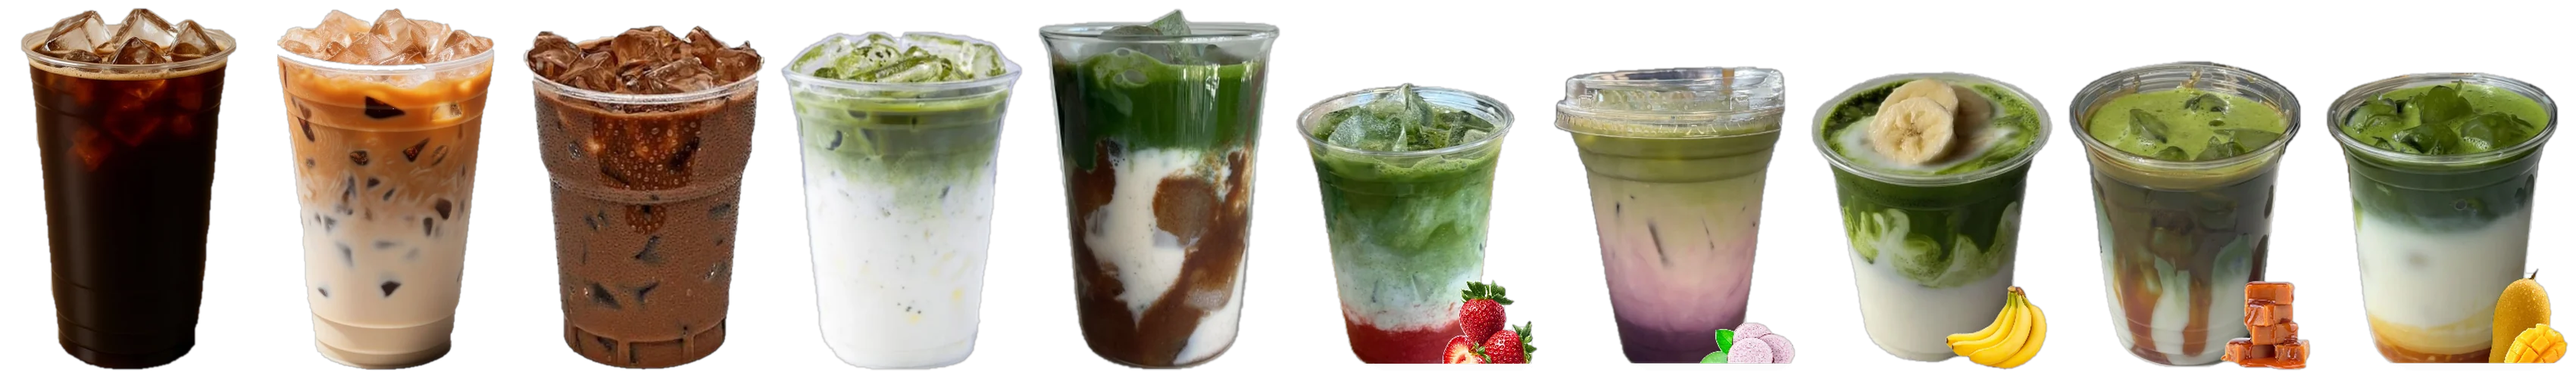
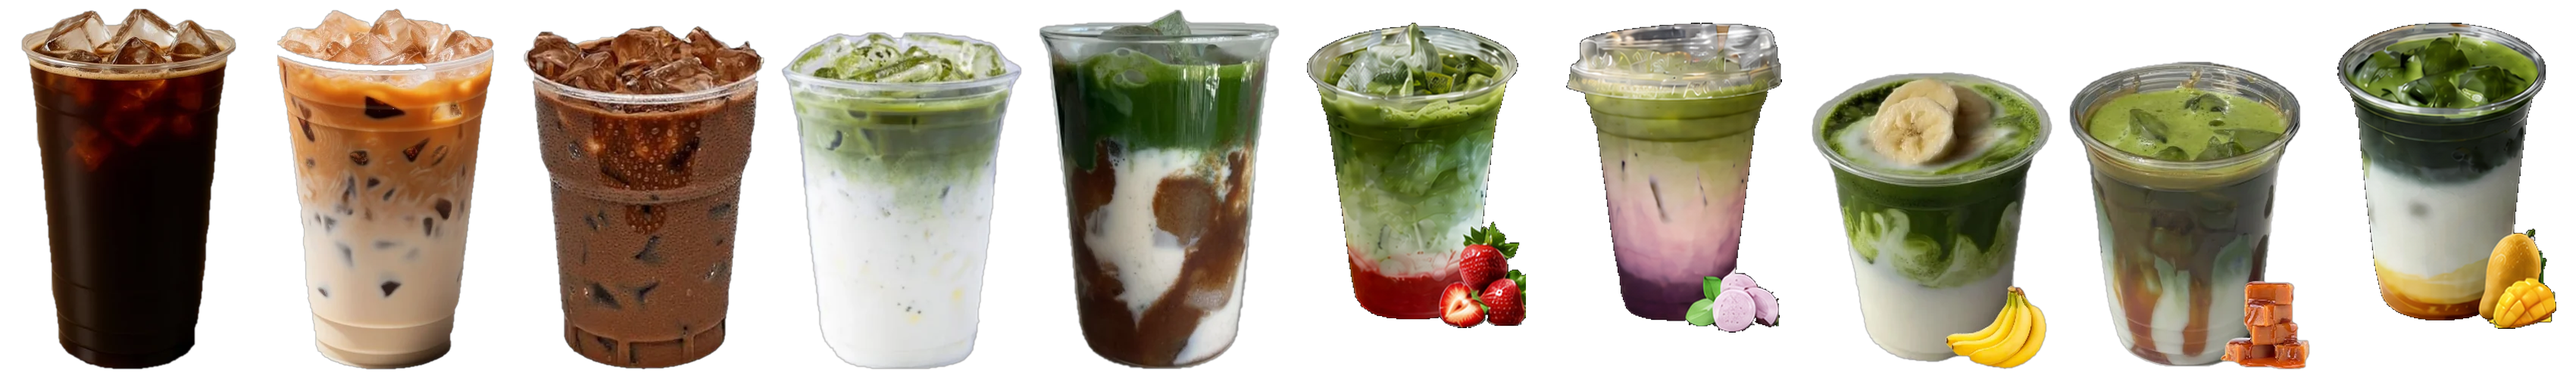
Wire up loading and error states in Menu with retry

diff --git a/src/app/app.component.spec.ts b/src/app/app.component.spec.ts
@@ -1,24 +1,31 @@
-import { TestBed } from '@angular/core/testing';
+import { ComponentFixture, TestBed } from '@angular/core/testing';
 import { provideRouter } from '@angular/router';
 import { AppComponent } from './app.component';
 import { provideHttpClient } from '@angular/common/http';
 import { provideHttpClientTesting } from '@angular/common/http/testing';
+
 describe('AppComponent', () => {
+  let fixture: ComponentFixture<AppComponent>;
+
   beforeEach(async () => {
     await TestBed.configureTestingModule({
       imports: [AppComponent],
       providers: [provideRouter([]), provideHttpClient(), provideHttpClientTesting()]
     }).compileComponents();
+
+    fixture = TestBed.createComponent(AppComponent);
+  });
+
+  afterEach(() => {
+    fixture.destroy();
   });
 
   it('should create the app', () => {
-    const fixture = TestBed.createComponent(AppComponent);
     const app = fixture.componentInstance;
     expect(app).toBeTruthy();
   });
 
   it('should render a router-outlet', () => {
-    const fixture = TestBed.createComponent(AppComponent);
     fixture.detectChanges();
     const compiled = fixture.nativeElement as HTMLElement;
     expect(compiled.querySelector('router-outlet')).toBeTruthy();

diff --git a/src/app/pages/reserve-page/reserve-page.component.spec.ts b/src/app/pages/reserve-page/reserve-page.component.spec.ts
@@ -7,12 +7,18 @@ import { provideHttpClientTesting } from '@angular/common/http/testing';
 describe('ReservePageComponent', () => {
   const providers = [provideRouter([]), provideHttpClient(), provideHttpClientTesting()];
 
-  it('should disable submit when the form is empty', async () => {
-    await render(ReservePageComponent, { providers });
+  it('should reveal all validation errors when submitting an empty form', async () => {
+  const user = userEvent.setup();
+  await render(ReservePageComponent, { providers });
 
-    const button = screen.getByRole('button', { name: /confirm reservation/i }) as HTMLButtonElement;
-    expect(button.disabled).toBe(true);
-  });
+  const button = screen.getByRole('button', { name: /confirm reservation/i });
+  await user.click(button);
+
+  expect(screen.getByText('Date is required')).toBeTruthy();
+  expect(screen.getByText('Pick a time')).toBeTruthy();
+  expect(screen.getByText('Party size is required')).toBeTruthy();
+  expect(screen.getByText('Name is required')).toBeTruthy();
+});
 
   it('should reject a past date', async () => {
     const { fixture } = await render(ReservePageComponent, { providers });

diff --git a/src/app/components/menu/menu.component.html b/src/app/components/menu/menu.component.html
@@ -1,6 +1,14 @@
 <section class="menu" id="menu">
   <span class="cnt" style="position:static;display:block;margin-bottom:1.4rem">04 — The List</span>
   <div class="menu__g">
+  @if (menuService.isLoading()) {
+    <p class="menu__state">Loading the menu...</p>
+  } @else if (menuService.loadError()) {
+    <p class="menu__state menu__state--error">
+      {{ menuService.loadError() }}
+      <button class="menu__retry" (click)="retryLoad()">Try again</button>
+    </p>
+  } @else {
     @for (category of categories; track category.cat) {
       <div class="set">
         <p class="set__c">{{ category.cat }}</p>
@@ -9,7 +17,8 @@
         }
       </div>
     }
-  </div>
+  }
+</div>
   <div class="menu__f">
   <div class="ticker">
     <div class="ticker__track" aria-hidden="true">

diff --git a/src/app/pages/reserve-page/reserve-page.component.html b/src/app/pages/reserve-page/reserve-page.component.html
@@ -60,12 +60,12 @@
       <div class="f wide">
         <label>Phone</label>
         <input type="tel" formControlName="phone" placeholder="059 000 0000" />
-        @if (reserveForm.get('phone')?.invalid && reserveForm.get('phone')?.touched) {
-          <span class="err">Enter a valid phone number</span>
-        }
+       @if (reserveForm.get('phone')?.invalid && reserveForm.get('phone')?.touched) {
+  <span class="err">Phone must be in the format 05X-XXX-XXXX (e.g. 059 000 0000)</span>
+}
       </div>
 
-      <button type="submit" class="submit wide" [disabled]="reserveForm.invalid || submitting">
+      <button type="submit" class="submit wide" [disabled]="submitting">
   {{ submitting ? 'Submitting...' : 'Confirm reservation' }}
 </button>
     </form>

diff --git a/src/app/components/menu/menu.component.ts b/src/app/components/menu/menu.component.ts
@@ -14,11 +14,15 @@ export class MenuComponent implements OnInit {
   categories: MenuCategory[] = [];
 
   constructor(
-    private menuService: MenuService,
+    public menuService: MenuService,
     private router: Router
   ) {}
 
   ngOnInit() {
+    this.loadMenu();
+  }
+
+  loadMenu() {
     this.menuService.getMenu().subscribe({
       next: (data) => {
         this.categories = data;
@@ -29,7 +33,11 @@ export class MenuComponent implements OnInit {
     });
   }
 
- onItemOrdered(id: string) {
-  this.router.navigate(['/order'], { queryParams: { preselect: id } });
-}
+  retryLoad() {
+    this.loadMenu();
+  }
+
+  onItemOrdered(id: string) {
+    this.router.navigate(['/order'], { queryParams: { preselect: id } });
+  }
 }

diff --git a/src/app/components/menu/menu.component.scss b/src/app/components/menu/menu.component.scss
@@ -83,3 +83,27 @@
     animation: none;
   }
 }
+.menu__state {
+  text-align: center;
+  padding: 3rem 1rem;
+  color: var(--dim);
+  font-size: .9rem;
+}
+.menu__state--error {
+  color: var(--amber);
+}
+.menu__retry {
+  display: block;
+  margin: 1rem auto 0;
+  padding: .6rem 1.4rem;
+  border: 1px solid var(--amber);
+  color: var(--amber);
+  font-size: .6rem;
+  letter-spacing: .2em;
+  text-transform: uppercase;
+  transition: background-color .4s var(--e), color .4s var(--e);
+}
+.menu__retry:hover {
+  background: var(--amber);
+  color: var(--ink);
+}

diff --git a/src/app/components/craft/craft.component.scss b/src/app/components/craft/craft.component.scss
@@ -87,10 +87,13 @@
 }
 .craft__meta {
   display: flex;
-  gap: 2.6rem;
+  flex-wrap: wrap;
+  gap: 1.6rem 2.6rem;
   margin-top: 2.4rem;
   padding-top: 1.8rem;
   border-top: 1px solid var(--ghost);
+  max-width: 100%;
+  box-sizing: border-box;
 }
 .craft__meta div {
   flex: none;
@@ -124,4 +127,14 @@
   vertical-align: middle;
   margin-right: .7rem;
   opacity: .6;
+}
+@media (max-width: 500px) {
+  .asm-host {
+    font-size: clamp(1.8rem, 8vw, 3rem);
+    height: 1.1em;
+  }
+  .craft__grid {
+    grid-template-columns: 1fr;
+    gap: 1.5rem;
+  }
 }

diff --git a/src/app/components/visit/visit.component.scss b/src/app/components/visit/visit.component.scss
@@ -152,3 +152,34 @@
 .cta:hover .cta__x {
   transform: translateX(6px);
 }
+@media (max-width: 700px) {
+  .vg {
+    grid-template-columns: 1fr;
+    gap: 2.5rem;
+  }
+  .ctas {
+    grid-template-columns: 1fr;
+  }
+}
+
+@media (max-width: 500px) {
+  .visit {
+    padding-top: clamp(4rem, 10vh, 6rem);
+  }
+  .hours th, .hours td {
+    font-size: .82rem;
+  }
+  .addr {
+    font-size: 1.15rem;
+  }
+  .cta {
+    padding: 1.2rem 1.3rem;
+    gap: 1rem;
+  }
+  .cta__l {
+    font-size: 1.05rem;
+  }
+  .map {
+    margin-bottom: .5rem;
+  }
+}

diff --git a/src/app/components/footer/footer.component.scss b/src/app/components/footer/footer.component.scss
@@ -169,3 +169,28 @@
     flex-direction: column;
   }
 }
+@media (max-width: 500px) {
+  .foot__top {
+    gap: 2.2rem;
+    padding-top: clamp(3rem, 8vh, 4rem);
+  }
+  .foot__logo {
+    font-size: 1.5rem;
+  }
+  .foot__news-h {
+    font-size: clamp(1.9rem, 9vw, 2.6rem);
+  }
+  .foot__news-in {
+    padding-top: 2.5rem;
+    padding-bottom: 2.5rem;
+  }
+  .foot__form button {
+    padding: .9rem 1.6rem;
+  }
+  .foot__bottom {
+    flex-direction: column;
+    align-items: flex-start;
+    gap: .6rem;
+    text-align: left;
+  }
+}

diff --git a/src/app/components/reserve-modal/reserve-modal.component.ts b/src/app/components/reserve-modal/reserve-modal.component.ts
@@ -39,7 +39,7 @@ notInPast(control: AbstractControl): ValidationErrors | null {
   if (!control.value) return null;
 
   const [year, month, day] = control.value.split('-').map(Number);
-  const selected = new Date(year, month - 1, day);//month - 1 is because : JavaScript's Date uses zero-indexed months
+  const selected = new Date(year, month - 1, day);//month - 1 is because: JavaScript's Date uses zero-indexed months
 
   const today = new Date();
   today.setHours(0, 0, 0, 0);

diff --git a/src/app/pages/signup-page/signup-page.component.html b/src/app/pages/signup-page/signup-page.component.html
@@ -18,8 +18,8 @@
         <label>Phone</label>
         <input type="tel" formControlName="phone" placeholder="059 000 0000" />
         @if (signupForm.get('phone')?.invalid && signupForm.get('phone')?.touched) {
-          <span class="err">Enter a valid phone number</span>
-        }
+  <span class="err">Phone must be in the format 05X-XXX-XXXX (e.g. 059 000 0000)</span>
+}
       </div>
 
       <div class="f wide">

diff --git a/src/app/components/nav/nav.component.scss b/src/app/components/nav/nav.component.scss
@@ -1,6 +1,11 @@
 .nav {
   position: fixed;
-  inset: 0 0 auto 0;
+  top: 0;
+  left: 0;
+  right: 0;
+  width: 100%;
+  max-width: 100vw;
+  box-sizing: border-box;
   z-index: 800;
   display: flex;
   align-items: center;
@@ -141,6 +146,9 @@
 .sheet {
   position: fixed;
   inset: 0;
+  width: 100%;
+  max-width: 100vw;
+  box-sizing: border-box;
   z-index: 790;
   background: var(--ink);
   display: flex;
